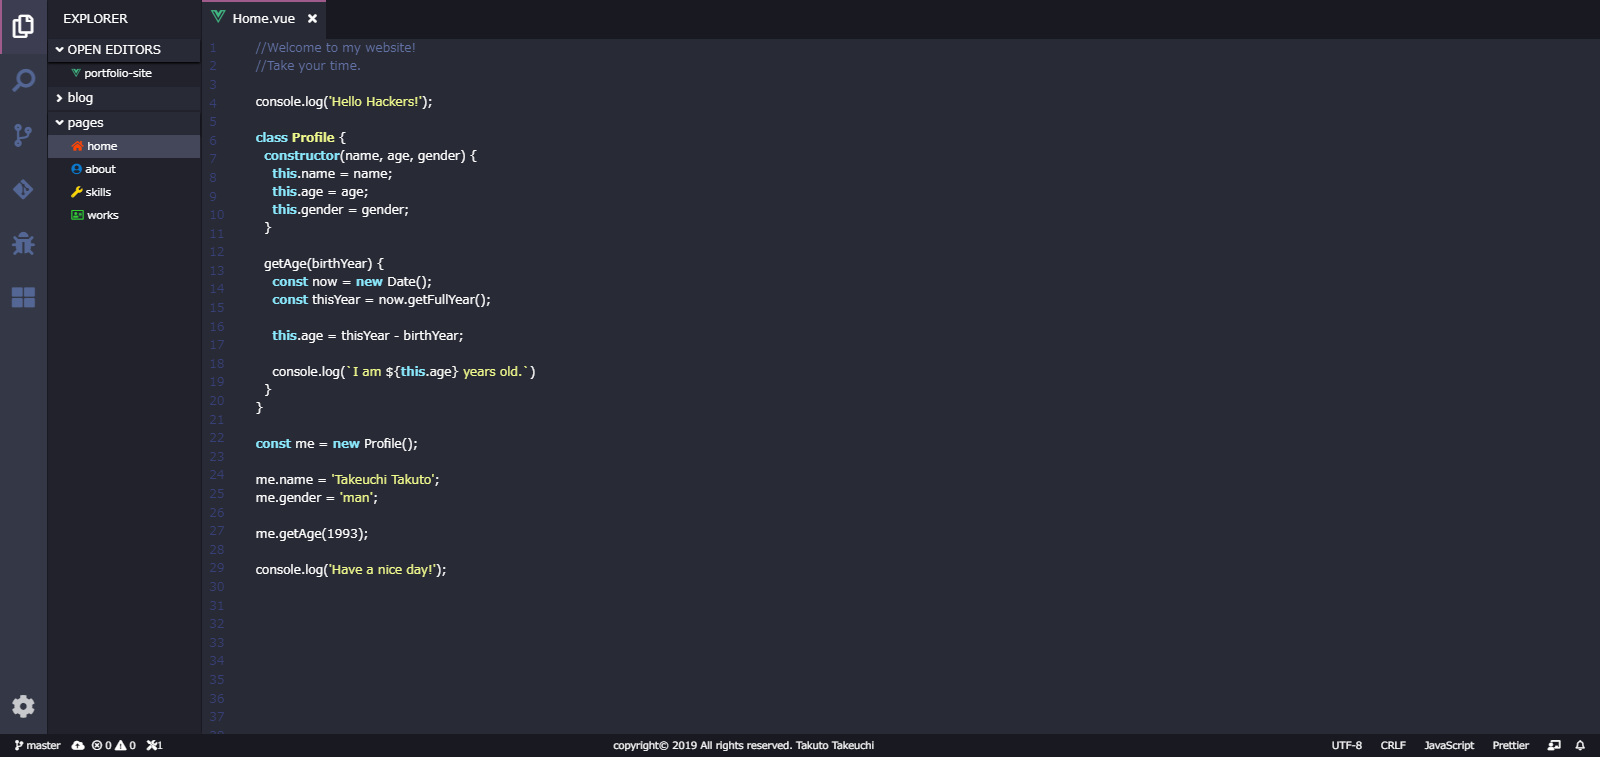
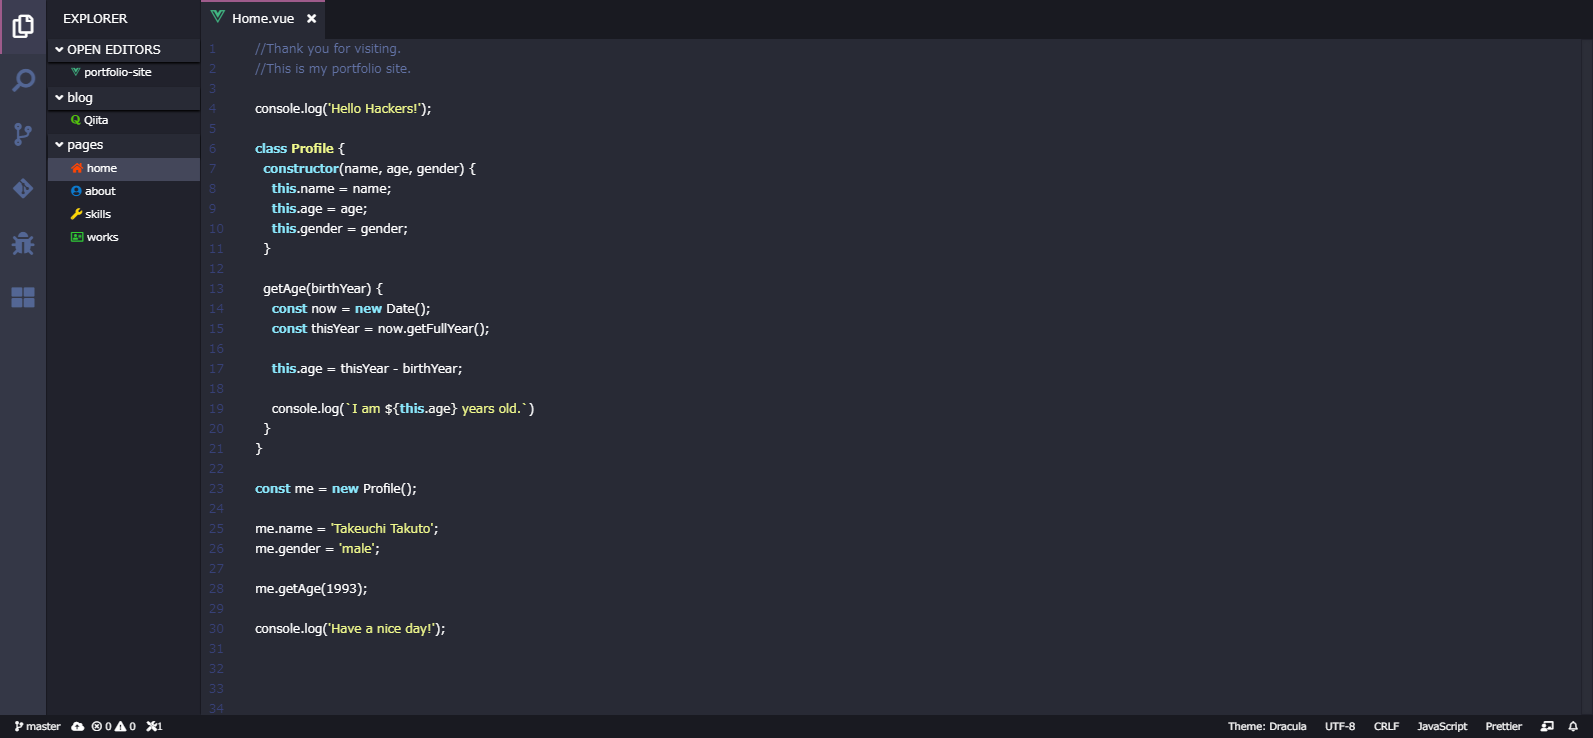
fix: コードの整理＆簡潔化

diff --git a/src/views/Works.vue b/src/views/Works.vue
@@ -1,8 +1,12 @@
 <template>
   <section class="works">
-    <div class="work" v-for="work in works" :key="work.name">
-      <h2 class="work__name">{{ work.name }}</h2>
-      <img class="work__image" :src="require(`@/assets/images/${work.title}.png`)" @click="openModal(work)">
+    <h2 class="works__heading">My WORKS</h2>
+
+    <div class="works__wrapper">
+      <div class="work" v-for="work in works" :key="work.name">
+        <h2 class="work__name">{{ work.name }}</h2>
+        <img class="work__image" :src="require(`@/assets/images/${work.title}.png`)" @click="openModal(work)">
+      </div>
     </div>
 
     <transition name="switch">
@@ -35,8 +39,8 @@ export default {
           link: 'https://github.com/taku-hu/portfolio-site',
           description: `
             私が初めて作ったもので、私のポートフォリオサイトです。<br>
-            コーディングに慣れやVue.jsへの理解を深めるため、UIパーツ等はあえて積極的に車輪の再発明を行いました。<br>
-            コードのハイライトにhighlight.jsを使ったこと以外は全てフルスクラッッチで実装しています。
+            コーディングの慣れやVue.jsへの理解を深めるため、UIパーツ等はあえて積極的に車輪の再発明を行いました。<br>
+            コードのハイライトにhighlight.jsを使ったこと以外はホボ全てフルスクラッッチで実装しています。
           `
         },
         {
@@ -57,7 +61,7 @@ export default {
           description: `
             私が2番目に作ったものです。<br>
             以前の開発の経験を生かしてより多くの機能を盛り込みました。<br>
-            特にJavaScript自体の理解を深めたいと思い、より多くのネイティブコードを書きました。
+            特にJavaScript自体の理解を深めたいと思い、より多くのコードを書きました。
           `
         }
       ],
@@ -81,15 +85,24 @@ export default {
 @import '@/assets/styles/_fragments.scss';
 
 .works {
-  display: flex;
-  flex-wrap: wrap;
-  justify-content: space-around;
-  align-items: center;
   width: 100%;
   height: 100%;
   text-align: center;
+  &__heading {
+    width: 65%;
+    font-size: 2.5rem;
+    font-family: 'Open Sans', sans-serif;
+    border-bottom: 2px solid #4f505a;
+    text-align: left;
+    padding: 3rem 0 1rem;
+    margin: 0 auto 1.5rem;
+  }
+  &__wrapper {
+    @include center-styling(wrap, row, space-around);
+  }
   .work {
     width: 40%;
+    margin-bottom: 2rem;
     &__name {
       font-size: 2rem;
       font-family: 'Orbitron', sans-serif;
@@ -160,10 +173,12 @@ export default {
 //メディアクエリ
 @include media-query($bp-tablet) {
   .works {
-    @include center-styling;
+    &__heading {
+      width: 85%;
+      font-size: 2rem;
+    }
     .work {
       width: 85%;
-      margin-bottom: 2rem;
     }
     .modal {
       &__link {

diff --git a/src/components/Explorer.vue b/src/components/Explorer.vue
@@ -1,17 +1,17 @@
 <template>
   <div class="explorer" :class="{'explorer--theme-changed' : themeChanged}">
-    <div class="explorer__bar">EXPLORER</div>
-    <div class="explorer__main-accordion" v-for="accordion in accordions" :key="accordion.labelName">
+    <div class="explorer__heading">EXPLORER</div>
+    <div class="accordion" v-for="accordion in accordions" :key="accordion.labelName">
       <div
-        class="label"
-        :class="{'label--opened': accordion.open, 'label--theme-changed' : themeChanged}"
+        class="accordion__label"
+        :class="{'accordion__label--opened': accordion.open, 'accordion__label--theme-changed' : themeChanged}"
         @click="toggleExplorer(accordion)"
       >
         <i class="fas fa-angle-down" :class="{close : !accordion.open}" ></i>
         {{ accordion.labelName }}
       </div>
       <transition name="open">
-        <div class="body" v-show="accordion.open">
+        <div class="accordion__body" v-show="accordion.open">
           <a :href="accordion.link" target="_blank">
             <span v-html="accordion.icon"></span>
             {{ accordion.item }}
@@ -20,17 +20,17 @@
       </transition>
     </div>
 
-    <div class="explorer__main-accordion">
+    <div class="accordion">
       <div
-        class="label"
-        :class="{'label--opened': linksOpen,  'label--theme-changed' : themeChanged}"
+        class="accordion__label"
+        :class="{'accordion__label--opened': linksOpen,  'accordion__label--theme-changed' : themeChanged}"
         @click="linksOpen = !linksOpen"
       >
         <i class="fas fa-angle-down" :class="{close : !linksOpen}"></i>
         pages
       </div>
-      <div class="body" v-show="linksOpen">
-        <nav class="link">
+      <div class="accordion__body" v-show="linksOpen">
+        <nav class="accordion__links">
           <ul>
             <li v-for="link in links" :key="link.name">
               <router-link :to="link.path">
@@ -57,7 +57,7 @@ export default {
           labelName: 'OPEN EDITORS',
           icon: '<i class="fab fa-vuejs"></i>',
           item: 'portfolio-site',
-          link: null,
+          link: 'https://github.com/taku-hu/portfolio-site',
           open: true
         },
         {
@@ -100,15 +100,15 @@ export default {
   &--theme-changed {
     background-color: #252526;
   }
-  &__bar {
+  &__heading {
     height: 2.5rem;
     line-height: 2.5rem;
     box-sizing: border-box;
     padding-left: 1rem;
   }
-  &__main-accordion {
+  .accordion {
     margin-bottom: 2px;
-    .label {
+    &__label {
       height: 1.5rem;
       line-height: 1.5rem;
       background-color: #282a36;
@@ -127,7 +127,7 @@ export default {
         }
       }
     }
-    .body {
+    &__body {
       height: 1.5rem;
       line-height: 1.5rem;
       font-size: 0.7rem;
@@ -155,7 +155,7 @@ export default {
         color: #0D79CC;
       }
     }
-    .link {
+    &__links {
       .fa-home {
         color: #ff4500;
       }

diff --git a/src/App.vue b/src/App.vue
@@ -12,11 +12,9 @@
           <i class="fas fa-times" @click="closeTab"></i>
         </div>
         <div class="code__field" :class="{'code__field--theme-changed' : themeChanged}">
-
           <transition name="switch">
             <router-view :themeChanged = "themeChanged"/>
           </transition>
-
         </div>
       </main>
     </div>
@@ -33,10 +31,12 @@ import FooterComponent from '@/components/Footer.vue';
 export default {
   created() {
     const getInnerVh = () => {
-    const vh =  window.innerHeight * 0.01;
+      const vh =  window.innerHeight * 0.01;
       document.documentElement.style.setProperty('--vh', `${vh}px`);
     }
+
     getInnerVh();
+
     window.addEventListener('resize', () => {
       getInnerVh();
     });
@@ -61,7 +61,7 @@ export default {
         showCancelButton: true,
         showCloseButton: true,
       }).then(result => {
-        if(result.value) window.open('about:blank','_self').close()
+        if(result.value) window.open('about:blank','_self').close();
       });
     }
   },
@@ -179,20 +179,10 @@ a {
 @include media-query($bp-mobile) {
   .code {
     width: calc(100% - 10rem);
-  }
-
-  //スクロールバーのカスタマイズ
-  ::-webkit-scrollbar {
-    width: 0.5rem;
-    background-color: #2C2E38;
-  }
-  ::-webkit-scrollbar-track {
-    border: 1px solid #21222C;
-    box-shadow: inset 0 0 5px rgba(0, 0, 0, .1);
-  }
-  ::-webkit-scrollbar-thumb {
-    background-color: #494A51;
-    box-shadow:0 0 0 1px rgba(255, 255, 255, .3);
+    //スクロールバーのカスタマイズ
+    ::-webkit-scrollbar {
+      width: 0.5rem;
+    }
   }
 }
 </style>

diff --git a/src/views/Home.vue b/src/views/Home.vue
@@ -88,13 +88,12 @@ console.log('Have a nice day!');
     }
     p {
       width: 3rem;
-      height: 1.2rem;
       line-height: 1.2rem;
       padding-left: 0.5rem;
     }
   }
   &__body {
-    pre {
+    pre, code {
       line-height: 1.2rem;
     }
   }

diff --git a/src/components/Leftbar.vue b/src/components/Leftbar.vue
@@ -102,7 +102,12 @@ export default {
     left: 0;
     bottom: 0;
     cursor: pointer;
+    transition: 1s;
     animation: flashing 1.5s linear alternate infinite;
+    &:hover {
+      transform: rotate(120deg);
+      animation: none;
+    }
   }
 }
 
